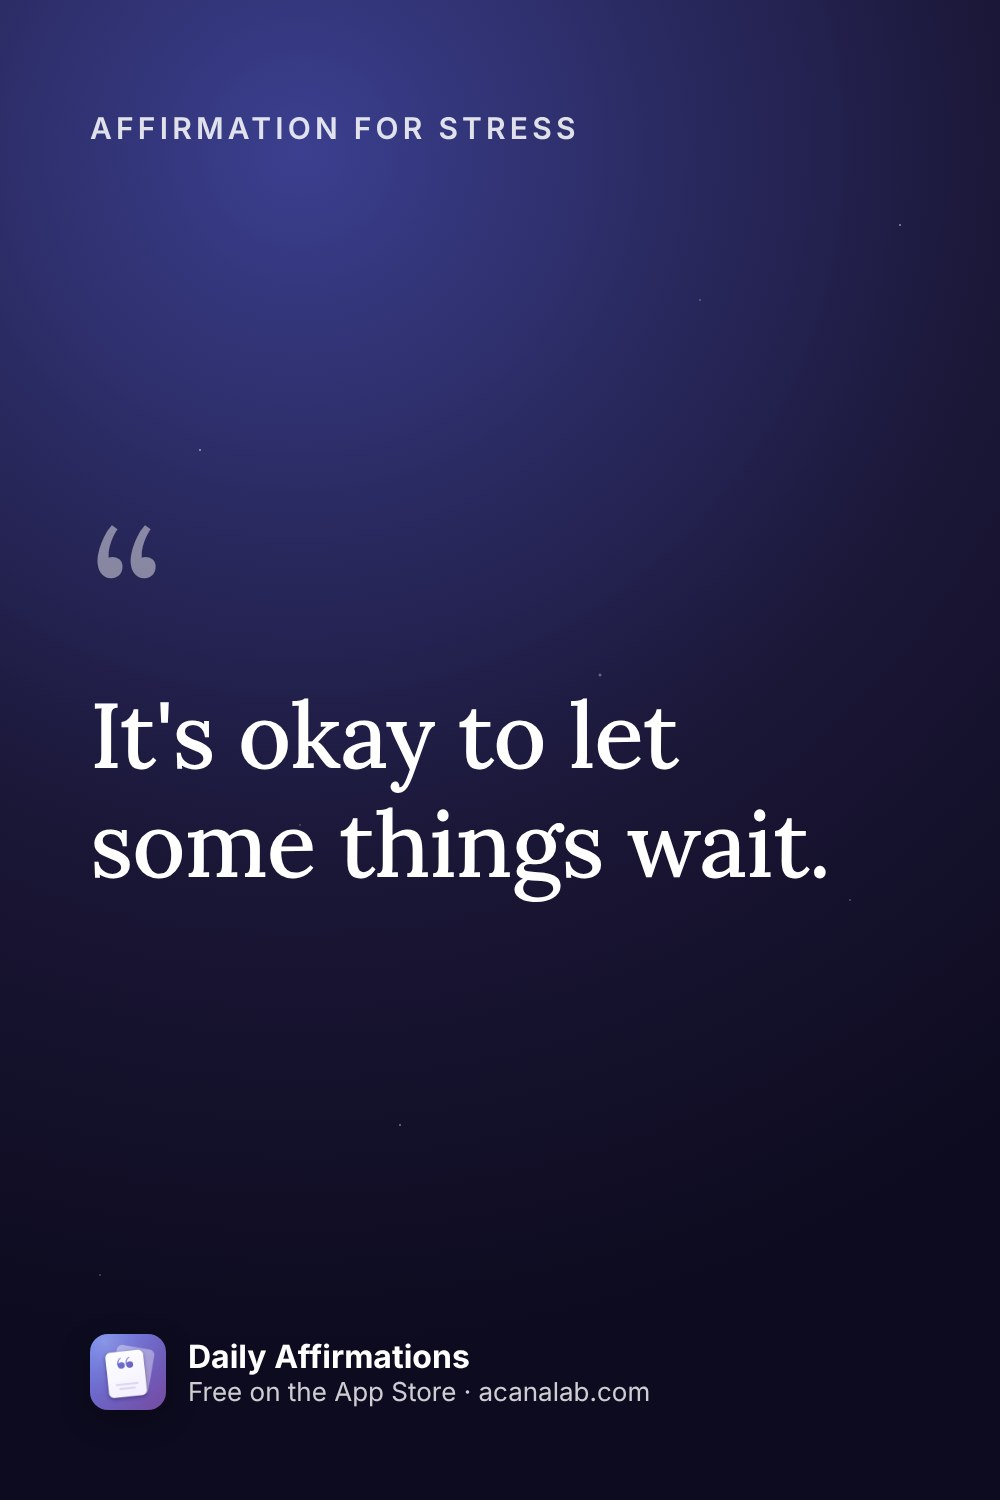
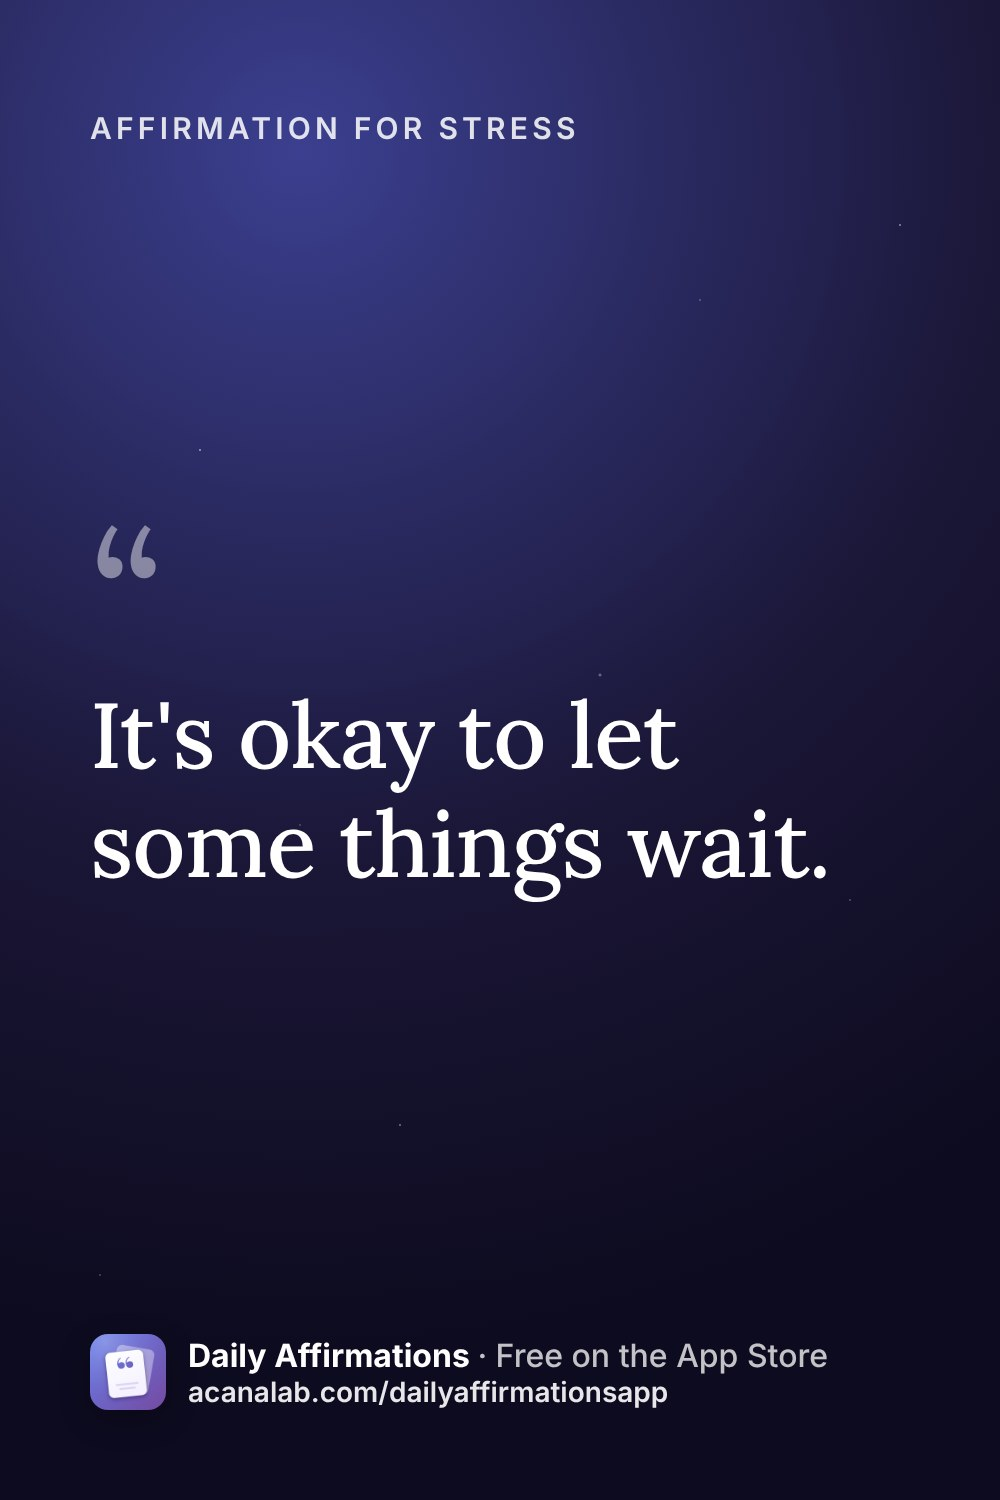
Pins: show acanalab.com/dailyaffirmationsapp in the footer; re-render feed pins
Claude-Session: https://claude.ai/code/session_01QDUbNfTZWt5fXopf66d6xz

Changed region(s): [[0.186, 0.8893, 0.837, 0.9507]]

diff --git a/_tools/pins/render.js b/_tools/pins/render.js
@@ -31,14 +31,15 @@ body { width: 1000px; height: 1500px; font-family: Inter, sans-serif; -webkit-fo
 .foot { position: relative; display: flex; align-items: center; gap: 22px; margin-top: 40px; }
 .foot img { width: 76px; height: 76px; border-radius: 18px; box-shadow: 0 10px 30px rgba(0,0,0,.25); }
 .foot b { display: block; font-size: 32px; }
-.foot small { font-size: 26px; opacity: .8; }
+.foot b span { font-weight: 500; opacity: .75; }
+.foot small { font-size: 28px; font-weight: 600; opacity: .9; }
 .cta { position: relative; margin-top: 10px; display: inline-block; background: #fff; color: #4b3a8f; font-weight: 700; font-size: 34px; padding: 22px 38px; border-radius: 60px; align-self: flex-start; }
 .blush .cta { background: #2a2148; color: #fff; }
 `;
 
 function pinHtml(j) {
   const deco = j.theme === "night" ? '<div class="stars"></div>' : j.theme === "brand" ? '<div class="glow"></div>' : "";
-  const foot = `<div class="foot"><img src="file://${root}/app-icon.png"><div><b>Daily Affirmations</b><small>Free on the App Store · acanalab.com</small></div></div>`;
+  const foot = `<div class="foot"><img src="file://${root}/app-icon.png"><div><b>Daily Affirmations <span>· Free on the App Store</span></b><small>acanalab.com/dailyaffirmationsapp</small></div></div>`;
   const body = j.kind === "quote"
     ? `<div class="quote${j.text.length > 48 ? " long" : ""}"><span>${esc(j.text)}</span></div>`
     : `<div class="title">${esc(j.title)}</div><ul class="list">${j.items.map((i) => `<li>${esc(i)}</li>`).join("")}</ul><div class="cta">${esc(j.cta)} →</div>`;
